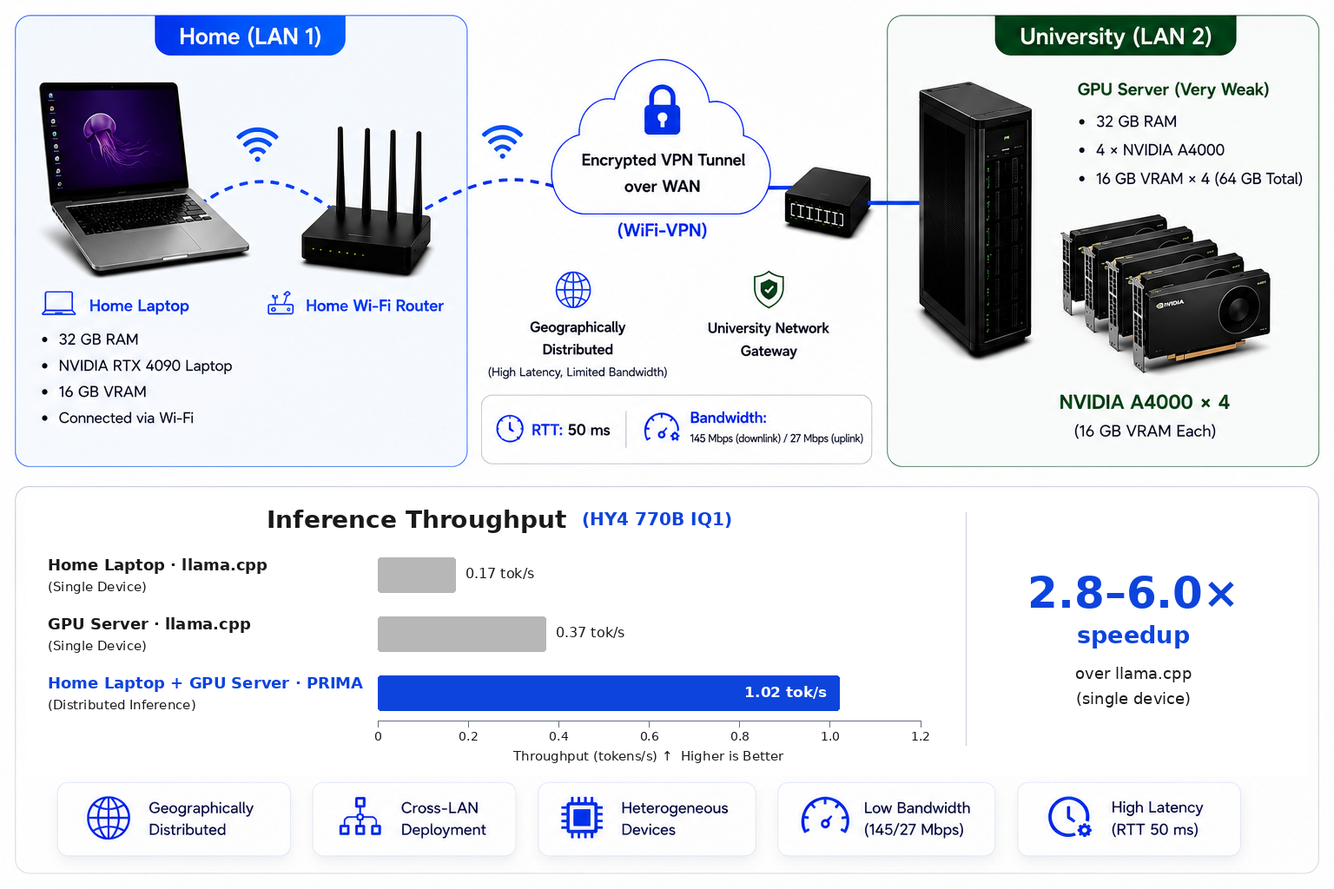
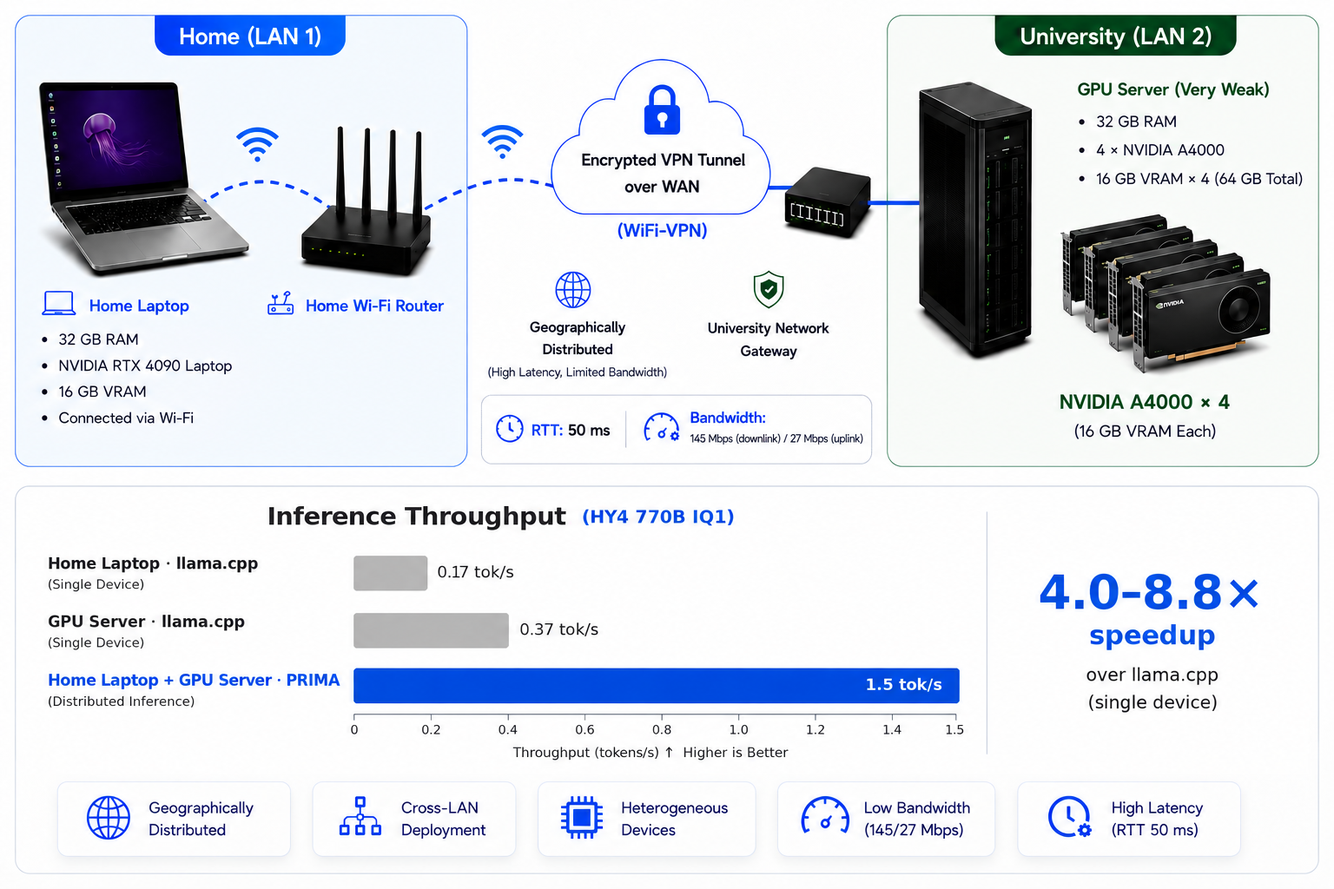
Sync web branch from cpil-lab.github.io

diff --git a/src/hy4-replay-data-fc83-20260905.js b/src/hy4-replay-data-fc83-20260905.js
@@ -1,0 +1,67 @@
+// Generated from the audited 2026-09-05 FC83 HY4 model-name EOS timing record.
+// Each event is [seconds since replay start, seconds since previous replay token, exact SSE delta, tokenizer token ID].
+// Replay timing and displayed TPOT values are final hard-coded data; the app performs no timing normalization or throughput calculation.
+export const hy4ReplayData = {
+  schema: "prima.web.hy4-token-replay.v2",
+  sourceSchemas: [
+    "prima.hy4-preview-stq1.replay-trace.v1",
+    "prima.hy4.native-token-timing-result.v1",
+  ],
+  sourceBundle: "hy4-preview-stq1-replay-20260905-fc83-model-name-eos-a1",
+  nativeSourceBundle: "/tmp/hy4-native-model-name-eos-20260828-a1/collected",
+  sourceFiles: {
[8 lines of base64/hex data omitted]
+  },
+  eventUnit: "token",
+  tokenizerTokenIdsAvailable: true,
+  prompts: {
+    "model-name": {
+      requestIndex: 1,
+      prompt: "What is your model name and what can you do for me?",
+      output: "My model name is Hunyuan. I can answer various questions, solve problems, learn new knowledge, create content, and have casual chats. I support multiple languages including Chinese, English, Japanese, Korean, Russian, French, Spanish, Portuguese, German, Italian, Dutch, Arabic, Hindi, Indonesian, Vietnamese, Thai, Polish, Ukrainian, Romanian, Turkish, Swedish, Danish, Finnish, Norwegian, Hungarian, Czech, Greek, Hebrew, Persian, Urdu, Bengali, Tamil, Telugu, Marathi, Kannada, Malayalam, Punjabi, Gujarati, Sinhala, Khmer, Lao, Burmese, Nepali, Tibetan, Mongolian, Uyghur. I can also handle tasks such as text generation, translation, summarization, code writing, and more.",
+      stopType: "eos",
+      tokenCount: 166,
+      results: {
+        home: {
+          topology: "native_laptop_4090",
+          label: "Home Laptop · llama.cpp",
+          captureStatus: "complete_visible_output",
+          tokenCount: 74,
+          output: "My name is Hunyuan, a large language model developed by Tencent. I can assist you with various tasks such as answering questions, providing information, offering suggestions, helping with writing and translation, and engaging in conversations on a wide range of topics. Whether you need help with academic research, creative writing, or just want to chat, I'm here to support you.",
+          ttftSeconds: 0,
+          tpotSeconds: 5.9,
+          events: [[0,null,"My",5274],[11.966779509,11.966779509," name",2046],[18.486197092,6.519417583," is",341],[23.790489421,5.304292329," Hun",78365],[38.630916617,14.840427196,"yuan",54403],[48.238549067,9.60763245,",",11],[54.99066966,6.752120593," a",259],[58.607548309,3.616878649," large",3335],[62.134881134,3.527332825," language",4746],[68.167437429,6.032556295," model",1792],[71.158804104,2.991366675," developed",6873],[74.606214226,3.447410122," by",533],[82.17376999,7.567555764," T",344],[89.006131279,6.832361289,"encent",45813],[94.302321553,5.296190274,".",13],[100.102150959,5.799829406," I",356],[108.206268489,8.10411753," can",565],[115.038487883,6.832219394," assist",12824],[118.222587989,3.184100106," you",435],[121.526094934,3.303506945," with",430],[125.958855433,4.432760499," various",3623],[134.533919745,8.575064312," tasks",8140],[138.006456369,3.472536624," such",1451],[145.839396165,7.832939796," as",433],[149.249924078,3.410527913," answering",38903],[153.25827373,4.008349652," questions",5465],[156.289973071,3.031699341,",",11],[160.614422115,4.324449044," providing",7259],[169.246107947,8.631685832," information",2118],[172.81782512,3.571717173,",",11],[177.450473903,4.632648783," offering",13567],[181.202000502,3.751526599," suggestions",19430],[184.600157837,3.398157335,",",11],[188.229460888,3.629303051," helping",14931],[192.050086909,3.820626021," with",430],[195.546059003,3.495972094," writing",6718],[202.906617994,7.360558991," and",303],[206.810027794,3.9034098," translation",14629],[214.160133334,7.35010554,",",11],[218.042239901,3.882106567," and",303],[222.986596802,4.944356901," engaging",21225],[227.458320951,4.471724149," in",297],[239.14626635,11.687945399," conversations",30140],[245.482440897,6.336174547," on",396],[249.258413307,3.77597241," a",259],[253.401781477,4.14336817," wide",8182],[257.242141624,3.840360147," range",3461],[261.602331167,4.360189543," of",299],[266.319072498,4.716741331," topics",14783],[271.394138496,5.075065998,".",13],[275.226667779,3.832529283," Whether",16565],[279.51422096,4.287553181," you",435],[282.970350694,3.456129734," need",1265],[291.642115307,8.671764613," help",2084],[297.106422021,5.464306714," with",430],[300.315317059,3.208895038," academic",14481],[304.270270881,3.954953822," research",3150],[307.586480476,3.316209595,",",11],[312.401108059,4.814627583," creative",15909],[316.394330947,3.993222888," writing",6718],[322.530144598,6.135813651,",",11],[326.680577821,4.150433223," or",474],[334.994205494,8.313627673," just",1557],[339.594904655,4.600699161," want",1903],[343.378727101,3.783822446," to",302],[348.553947374,5.175220273," chat",17661],[355.090319252,6.536371878,",",11],[364.647652661,9.557333409," I",356],[371.237662712,6.590010051,"'m",3283],[382.950323452,11.71266074," here",2376],[389.37966451,6.429341058," to",302],[410.647419319,21.267754809," support",2200],[419.430204101,8.782784782," you",435],[430.10283704,10.672632939,".",13]],
+        },
+        server: {
+          topology: "native_a4000x4",
+          label: "GPU server · llama.cpp",
+          captureStatus: "complete_eos",
+          tokenCount: 69,
+          output: "My name is Hunyuan, a large language model developed by Tencent. I can assist you with various tasks such as answering questions, providing information, offering suggestions, and helping with text creation like writing stories or summaries. Whether it's about science, history, daily life, or other topics, feel free to let me know your needs!",
+          ttftSeconds: 0,
+          tpotSeconds: 2.7,
+          events: [[0,null,"My",5274],[5.329084726,5.329084726," name",2046],[8.635108537,3.306023811," is",341],[10.851389129,2.216280592," Hun",78365],[14.976716725,4.125327596,"yuan",54403],[17.771172041,2.794455316,",",11],[20.239623059,2.468451018," a",259],[23.160417471,2.920794412," large",3335],[26.337241241,3.17682377," language",4746],[29.102536507,2.765295266," model",1792],[30.812557651,1.710021144," developed",6873],[33.933574558,3.121016907," by",533],[36.114424942,2.180850384," T",344],[39.60540747,3.490982528,"encent",45813],[42.020050814,2.414643344,".",13],[44.825684318,2.805633504," I",356],[47.800342343,2.974658025," can",565],[50.73407193,2.933729587," assist",12824],[53.939196366,3.205124436," you",435],[56.137486124,2.198289758," with",430],[58.777650567,2.640164443," various",3623],[62.185127839,3.407477272," tasks",8140],[65.430538604,3.245410765," such",1451],[67.851236667,2.420698063," as",433],[70.109585043,2.258348376," answering",38903],[72.520672434,2.411087391," questions",5465],[74.906250314,2.38557788,",",11],[77.044320137,2.138069823," providing",7259],[79.379720976,2.335400839," information",2118],[81.411657344,2.031936368,",",11],[83.010923053,1.599265709," offering",13567],[84.769877608,1.758954555," suggestions",19430],[86.724686316,1.954808708,",",11],[87.960536431,1.235850115," and",303],[90.214697823,2.254161392," helping",14931],[92.800216946,2.585519123," with",430],[94.943340521,2.143123575," text",2564],[97.954448265,3.011107744," creation",12151],[100.251122093,2.296673828," like",1322],[102.985932399,2.734810306," writing",6718],[104.861662252,1.875729853," stories",13639],[106.837509504,1.975847252," or",474],[109.040521483,2.203011979," summaries",80870],[112.241188814,3.200667331,".",13],[116.003184176,3.761995362," Whether",16565],[119.514585309,3.511401133," it",442],[122.574433264,3.059847955,"'s",715],[124.81741207,2.242978806," about",1201],[127.139656816,2.322244746," science",8187],[130.285613324,3.145956508,",",11],[132.636143988,2.350530664," history",5694],[134.800639646,2.164495658,",",11],[136.935195622,2.134555976," daily",9539],[139.747921807,2.812726185," life",3025],[141.687766882,1.939845075,",",11],[143.280605472,1.59283859," or",474],[145.240568255,1.959962783," other",1143],[148.184780003,2.944211748," topics",14783],[151.498550362,3.313770359,",",11],[154.43723854,2.938688178," feel",3920],[158.687509636,4.250271096," free",3544],[162.034125551,3.346615915," to",302],[164.982797602,2.948672051," let",2615],[168.359587836,3.376790234," me",763],[171.453259865,3.093672029," know",1816],[174.043004348,2.589744483," your",808],[177.509812038,3.46680769," needs",4200],[180.657133792,3.147321754,"!",0],[184.265026999,3.607893207,"",120025]],
+        },
+        prima: {
+          topology: "prima_2p",
+          label: "Home Laptop + GPU server · PRIMA",
+          captureStatus: "complete_eos",
+          tokenCount: 166,
+          output: "My model name is Hunyuan. I can answer various questions, solve problems, learn new knowledge, create content, and have casual chats. I support multiple languages including Chinese, English, Japanese, Korean, Russian, French, Spanish, Portuguese, German, Italian, Dutch, Arabic, Hindi, Indonesian, Vietnamese, Thai, Polish, Ukrainian, Romanian, Turkish, Swedish, Danish, Finnish, Norwegian, Hungarian, Czech, Greek, Hebrew, Persian, Urdu, Bengali, Tamil, Telugu, Marathi, Kannada, Malayalam, Punjabi, Gujarati, Sinhala, Khmer, Lao, Burmese, Nepali, Tibetan, Mongolian, Uyghur. I can also handle tasks such as text generation, translation, summarization, code writing, and more.",
+          ttftSeconds: 39.654474076,
+          tpotSeconds: 0.655343747860606,
+          displayMetric: "Average replay time per output token",
+          metricDefinition: "Arithmetic mean of arrival intervals from output token 2 through the final EOS token; TTFT is excluded.",
+          events: [[0,null,"My",5274],[0.923063311,0.923063311," model",1792],[1.922715628,0.999652317," name",2046],[3.033604949,1.110889321," is",341],[3.918472019,0.88486707," Hun",78365],[4.983983188,1.065511169,"yuan",54403],[5.935153389,0.951170201,".",13],[6.806625065,0.871471676," I",356],[7.682100547,0.875475482," can",565],[8.710892787,1.02879224," answer",3145],[9.740587181,1.029694394," various",3623],[10.799395247,1.058808066," questions",5465],[11.762210231,0.962814984,",",11],[12.61910116,0.856890929," solve",7377],[13.521984278,0.902883118," problems",4469],[14.397406248,0.87542197,",",11],[15.171095561,0.773689313," learn",4415],[15.950718989,0.779623428," new",1059],[16.955809559,1.00509057," knowledge",5297],[17.732548703,0.776739144,",",11],[18.380567985,0.648019282," create",2987],[19.115289544,0.734721559," content",3499],[19.808215662,0.692926118,",",11],[20.384621658,0.576405996," and",303],[21.228984021,0.844362363," have",672],[22.20175644,0.972772419," casual",30672],[23.048707659,0.846951219," ch",562],[23.945616854,0.896909195,"ats",3296],[24.741051264,0.79543441,".",13],[25.469866432,0.728815168," I",356],[26.208869661,0.739003229," support",2200],[26.934120481,0.72525082," multiple",4361],[27.821289719,0.887169238," languages",13396],[28.671419198,0.850129479," including",3201],[29.738429939,1.067010741," Chinese",10051],[30.569501159,0.83107122,",",11],[31.387411786,0.817910627," English",6821],[32.100342766,0.71293098,",",11],[32.844214261,0.743871495," Japanese",17197],[33.61162488,0.767410619,",",11],[34.336651429,0.725026549," Korean",34175],[35.089597763,0.752946334,",",11],[35.744348057,0.654750294," Russian",17984],[36.520584292,0.776236235,",",11],[37.157282678,0.636698386," French",12157],[37.852312957,0.695030279,",",11],[38.579352188,0.727039231," Spanish",19578],[39.263287918,0.68393573,",",11],[39.827628173,0.564340255," Portuguese",53139],[40.422864129,0.595235956,",",11],[41.005075891,0.582211762," German",13433],[41.71649892,0.711423029,",",11],[42.353240224,0.636741304," Italian",21382],[43.002018135,0.648777911,",",11],[43.576812473,0.574794338," Dutch",37369],[44.228611749,0.651799276,",",11],[44.784921852,0.556310103," Arabic",48338],[45.43660641,0.651684558,",",11],[45.967431442,0.530825032," Hindi",75640],[46.659646495,0.692215053,",",11],[47.218218042,0.558571547," Indonesian",84535],[47.930206101,0.711988059,",",11],[48.474848453,0.544642352," Vietnamese",70227],[49.11822075,0.643372297,",",11],[49.616961849,0.498741099," Thai",59765],[50.16962141,0.552659561,",",11],[50.676331299,0.506709889," Polish",47854],[51.292509443,0.616178144,",",11],[51.764523143,0.4720137," Ukrainian",68122],[52.412018766,0.647495623,",",11],[52.886138714,0.474119948," Romanian",112302],[53.43750265,0.551363936,",",11],[53.870577701,0.433075051," Turkish",51010],[54.47621439,0.605636689,",",11],[54.913616424,0.437402034," Swedish",50654],[55.543744529,0.630128105,",",11],[56.074912124,0.531167595," Danish",67439],[56.682832805,0.607920681,",",11],[57.144243613,0.461410808," Finnish",90345],[57.771685975,0.627442362,",",11],[58.266199409,0.494513434," Norwegian",68971],[58.848027624,0.581828215,",",11],[59.32661028,0.478582656," Hungarian",76513],[59.915078481,0.588468201,",",11],[60.411562333,0.496483852," Czech",45010],[61.022366287,0.610803954,",",11],[61.489903208,0.467536921," Greek",20919],[62.033100372,0.543197164,",",11],[62.445766799,0.412666427," Hebrew",52550],[62.945883034,0.500116235,",",11],[63.381538408,0.435655374," Persian",64021],[63.971840624,0.590302216,",",11],[64.389952489,0.418111865," Urdu",108542],[64.947015551,0.557063062,",",11],[65.386195165,0.439179614," Beng",46804],[66.036084399,0.649889234,"ali",7124],[66.627165761,0.591081362,",",11],[67.101615667,0.474449906," Tamil",72449],[67.660615618,0.558999951,",",11],[68.135678394,0.475062776," Tel",25390],[68.838082047,0.702403653,"ugu",43781],[69.415030219,0.576948172,",",11],[69.966891116,0.551860897," Mar",4222],[70.814910583,0.848019467,"athi",68367],[71.425524643,0.61061406,",",11],[71.866643078,0.441118435," Kann",113363],[72.471871456,0.605228378,"ada",3173],[72.999164102,0.527292646,",",11],[73.432413448,0.433249346," Malay",102066],[74.046575471,0.614162023,"alam",10365],[74.608318965,0.561743494,",",11],[75.045055117,0.436736152," Punj",93194],[75.606181799,0.561126682,"abi",26568],[76.199484008,0.593302209,",",11],[76.624058858,0.42457485," Guj",98441],[77.264422815,0.640363957,"ar",286],[77.869048983,0.604626168,"ati",7148],[78.417596101,0.548547118,",",11],[78.851523084,0.433926983," Sin",20390],[79.587936713,0.736413629,"h",71],[80.369884577,0.781947864,"ala",8020],[80.886444032,0.516559455,",",11],[81.304739609,0.418295577," Kh",24651],[82.05563229,0.750892681,"mer",2029],[82.549594304,0.493962014,",",11],[82.994935734,0.44534143," La",5397],[83.675002468,0.680066734,"o",78],[84.26103146,0.586028992,",",11],[84.730116466,0.469085006," Bur",15796],[85.413890354,0.683773888,"m",76],[86.071139939,0.657249585,"ese",6766],[86.680354329,0.60921439,",",11],[87.14362083,0.463266501," Nep",49690],[87.737114379,0.593493549,"ali",7124],[88.293741335,0.556626956,",",11],[88.694897025,0.40115569," Tibetan",79459],[89.200608496,0.505711471,",",11],[89.610945218,0.410336722," Mong",49332],[90.166400256,0.555455038,"olian",106227],[90.644311663,0.477911407,",",11],[91.053604877,0.409293214," U",695],[91.778816495,0.725211618,"yg",17688],[92.415581017,0.636764522,"hur",106543],[92.933770961,0.518189944,".",13],[93.631938384,0.698167423," I",356],[94.329546392,0.697608008," can",565],[95.117321014,0.787774622," also",1130],[95.870890977,0.753569963," handle",7247],[96.581482612,0.710591635," tasks",8140],[97.370579279,0.789096667," such",1451],[98.121461317,0.750882038," as",433],[98.811737618,0.690276301," text",2564],[99.643188885,0.831451267," generation",9179],[100.418573672,0.775384787,",",11],[101.014345815,0.595772143," translation",14629],[101.594999137,0.580653322,",",11],[102.082406336,0.487407199," summar",16495],[102.838944796,0.75653846,"ization",1864],[103.432806955,0.593862159,",",11],[103.966305825,0.53349887," code",2323],[104.663471621,0.697165796," writing",6718],[105.301715348,0.638243727,",",11],[105.768421556,0.466706208," and",303],[106.467585043,0.699163487," more",984],[107.455991713,0.98840667,".",13],[108.131718397,0.675726684,"",120025]],
+        },
+      },
+    },
+  },
+};

diff --git a/index.html b/index.html
@@ -51,7 +51,7 @@
               View on GitHub
               <svg aria-hidden="true" viewBox="0 0 24 24" fill="none" stroke="currentColor" stroke-width="2" stroke-linecap="round" stroke-linejoin="round"><path d="M15 22v-4a4.8 4.8 0 0 0-1-3.5c3.28-.36 6.72-1.61 6.72-7A5.4 5.4 0 0 0 19.3 4.77 5 5 0 0 0 19.16 2S18.05 1.65 15 3.48a13.4 13.4 0 0 0-7 0C4.95 1.65 3.84 2 3.84 2A5 5 0 0 0 3.7 4.77a5.4 5.4 0 0 0-1.42 2.78c0 5.42 3.44 6.67 6.72 7A4.8 4.8 0 0 0 8 18v4" /><path d="M8 19c-3 .9-3-1.5-4-2" /></svg>
             </a>
-            <a class="button button--outline" href="https://proceedings.iclr.cc/paper_files/paper/2026/file/e991e5587c1daa49bbf9a818b3f02f9a-Paper-Conference.pdf" target="_blank" rel="noreferrer">
+            <a class="button button--outline" href="https://openreview.net/pdf?id=h0LjpOG1jq" target="_blank" rel="noreferrer">
               Paper
               <svg aria-hidden="true" viewBox="0 0 24 24" fill="none" stroke="currentColor" stroke-width="2" stroke-linecap="round" stroke-linejoin="round"><path d="M14.5 2H6a2 2 0 0 0-2 2v16a2 2 0 0 0 2 2h12a2 2 0 0 0 2-2V7.5z" /><path d="M14 2v6h6" /><path d="M16 13H8" /><path d="M16 17H8" /><path d="M10 9H8" /></svg>
             </a>
@@ -213,7 +213,7 @@
               <header class="blog-post__header">
                 <div class="blog-meta"><time datetime="2026-08-31">August 31, 2026</time></div>
                 <h1 id="hy4-runbook-title-en">Inside the PRIMA Hy4 Preview 770B Experiment: How We Ran It Across Two Machines</h1>
-                <p>Two machines in different locations, across separate networks and connected wirelessly, combined 80 GB of VRAM and 64 GB of RAM to run Hy4 preview 770B at 1 TPS.</p>
+                <p>Two machines in different locations, across separate networks and connected wirelessly, combined 80 GB of VRAM and 64 GB of RAM to run Hy4 preview 770B at 1.5 TPS.</p>
               </header>
 
               <div class="blog-post__body">
@@ -748,7 +748,7 @@ jq '.choices[0].message | {content, reasoning_content}' "$RESPONSE"</code></pre>
               <header class="blog-post__header">
                 <div class="blog-meta"><time datetime="2026-08-31">2026 年 8 月 31 日</time></div>
                 <h1 id="hy4-runbook-title-zh">解密 PRIMA：如何在两台异构设备上运行 Hy4 Preview 770B</h1>
-                <p>两台设备，异地、跨网、无线连接，总计仅 80GB 显存和 64GB 系统内存，用 PRIMA 将 Hy4 Preview 770B 提速到 1 TPS。</p>
+                <p>两台设备，异地、跨网、无线连接，总计仅 80GB 显存和 64GB 系统内存，用 PRIMA 将 Hy4 Preview 770B 提速到 1.5 TPS。</p>
               </header>
 
               <div class="blog-post__body">
@@ -1447,7 +1447,7 @@ jq '.choices[0].message | {content, reasoning_content}' "$RESPONSE"</code></pre>
                 <p>The machines are not even on the same LAN. The laptop reaches the GPU server on a remote LAN over Wi-Fi and a VPN. Network RTT is approximately 50ms; the laptop’s downlink is only 145 Mbps, and its uplink is lower still at 27 Mbps.</p>
 
                 <figure class="blog-figure">
-                  <img data-blog-image="prima-hy4-testbed-v2.png" alt="A home RTX 4090 laptop connects over Wi-Fi and an encrypted cross-LAN VPN to a university server with four NVIDIA A4000 GPUs; measured Hy4 preview 770B throughput rises from 0.17 and 0.37 to 1.02 tokens per second with PRIMA" width="1536" height="1024" />
+                  <img data-blog-image="prima-hy4-testbed-v2.png" alt="A home RTX 4090 laptop connects over Wi-Fi and an encrypted cross-LAN VPN to a university server with four NVIDIA A4000 GPUs; measured Hy4 preview 770B throughput rises from 0.17 and 0.37 to 1.5 tokens per second with PRIMA" width="1536" height="1024" />
                 </figure>
 
                 <p>From an HPC perspective, this is almost exactly the kind of hardware and network setup one would be told not to use for distributed large-model inference. Yet it reflects the real world of local AI: <strong>heterogeneous devices, limited memory, and wireless networking.</strong></p>
@@ -1469,7 +1469,7 @@ jq '.choices[0].message | {content, reasoning_content}' "$RESPONSE"</code></pre>
 
                 <p>Think of the system as an enormous tool warehouse. Hy4 preview has hundreds of tools, but a specific problem needs only a few of them at a time. The GPU is a fast workbench close to the worker, but it has little space. The SSD is a vast warehouse, but retrieving a tool takes time. PRIMA tries to predict which tools will be needed next, move them close to the workbench in advance, and keep multiple workers and warehouses busy at the same time.</p>
 
-                <h2>From 6 seconds to 1 TPS</h2>
+                <h2>From 6 seconds to 1.5 TPS</h2>
 
                 <p>With PRIMA coordinating the two devices, we measured:</p>
 
@@ -1479,24 +1479,24 @@ jq '.choices[0].message | {content, reasoning_content}' "$RESPONSE"</code></pre>
                     <tbody>
                       <tr><th scope="row">4090 Laptop + llama.cpp</th><td>0.17 TPS</td></tr>
                       <tr><th scope="row">4× A4000 Server + llama.cpp</th><td>0.37 TPS</td></tr>
-                      <tr><th scope="row">4090 Laptop + 4× A4000 + PRIMA</th><td><strong>1.02 TPS</strong></td></tr>
+                      <tr><th scope="row">4090 Laptop + 4× A4000 + PRIMA</th><td><strong>1.5 TPS</strong></td></tr>
                     </tbody>
                   </table>
                 </div>
 
-                <p>With the two devices working together, throughput increased by <strong>6×</strong> over the laptop alone and by <strong>2.8×</strong> over the four-A4000 server alone.</p>
+                <p>With the two devices working together, throughput increased by <strong>8.8×</strong> over the laptop alone and by <strong>4.1×</strong> over the four-A4000 server alone.</p>
 
-                <p>One TPS is not a speed worth boasting about. What matters is this:</p>
+                <p>1.5 TPS is not a speed worth boasting about. What matters is this:</p>
 
-                <blockquote><strong>Without spending anything on new hardware, we accelerated a 770B model by 6×.</strong></blockquote>
+                <blockquote><strong>Without spending anything on new hardware, we accelerated a 770B model by 8.8×.</strong></blockquote>
 
-                <h2 data-single-line-heading>1 TPS is nowhere near PRIMA’s performance ceiling</h2>
+                <h2 data-single-line-heading>1.5 TPS is nowhere near PRIMA’s performance ceiling</h2>
 
                 <p>More importantly, the primary bottleneck in this two-machine system is still not CPU or GPU compute. It is <strong>streaming model data from SSD</strong>. The complete Hy4 preview IQ1 weights remain larger than the RAM and VRAM that can stay resident across both devices. Every generated token still requires substantial cold-expert data to be read from SSD. Prefetching, the page cache, expert caching, and computation overlap hide as much disk latency as possible, but SSD bandwidth remains the clearest bottleneck.</p>
 
                 <p>Therefore:</p>
 
-                <blockquote><strong>One TPS is the limit of these two devices, not the performance limit of PRIMA.</strong></blockquote>
+                <blockquote><strong>1.5 TPS is the limit of these two devices, not the performance limit of PRIMA.</strong></blockquote>
 
                 <p>Replacing the SSDs with higher-throughput storage in the future would leave significant room for improvement.</p>
 
@@ -1552,7 +1552,7 @@ jq '.choices[0].message | {content, reasoning_content}' "$RESPONSE"</code></pre>
 
                 <p>The model may be less capable, but most real-world tasks do not require the most capable model. We can add capacity until it becomes capable enough.</p>
 
-                <p>PRIMA + Hy4 preview 770B was a successful stress test. It did not create a local AI throughput miracle. It showed that 0.37 TPS on one device was not the limit of what I could deploy without new hardware, and that 1 TPS across two devices is not the end of the performance curve.</p>
+                <p>PRIMA + Hy4 preview 770B was a successful stress test. It did not create a local AI throughput miracle. It showed that 0.37 TPS on one device was not the limit of what I could deploy without new hardware, and that 1.5 TPS across two devices is not the end of the performance curve.</p>
 
                 <blockquote>Where will that boundary move when the next device joins?</blockquote>
 
@@ -1691,7 +1691,7 @@ jq '.choices[0].message | {content, reasoning_content}' "$RESPONSE"</code></pre>
               <p>它们甚至不在同一个局域网里：笔记本通过 Wi-Fi 和 VPN 访问远端局域网中的 GPU 服务器，网络 RTT 约为 50ms，笔记本的下行带宽仅为 145 Mbps，上行带宽更低，仅为 27 Mbps。</p>
 
               <figure class="blog-figure">
-                <img data-blog-image="prima-hy4-testbed-v2.png" alt="A home RTX 4090 laptop connects over Wi-Fi and an encrypted cross-LAN VPN to a university server with four NVIDIA A4000 GPUs; measured Hy4 preview 770B throughput rises from 0.17 and 0.37 to 1.02 tokens per second with PRIMA" width="1536" height="1024" />
+                <img data-blog-image="prima-hy4-testbed-v2.png" alt="A home RTX 4090 laptop connects over Wi-Fi and an encrypted cross-LAN VPN to a university server with four NVIDIA A4000 GPUs; measured Hy4 preview 770B throughput rises from 0.17 and 0.37 to 1.5 tokens per second with PRIMA" width="1536" height="1024" />
               </figure>
 
               <p>从 HPC 的角度看，这几乎是一套“不应该拿来做分布式大模型推理”的硬件和网络设施。但这正是本地 AI 面对的真实世界：<strong>异构设备、小内存、无线网络。</strong></p>
@@ -1713,7 +1713,7 @@ jq '.choices[0].message | {content, reasoning_content}' "$RESPONSE"</code></pre>
 
               <p>可以把它理解成一个非常大的工具仓库。 Hy4 preview 有几百种工具，但解决一个具体问题时，一次只需要其中少数几种。 GPU 是离工人最近的工作台，但空间很小。 SSD 是巨大的仓库，但取工具比较慢。 PRIMA 要做的事情，就是尽可能预测“接下来最可能用什么工具”，提前把它们放到工作台附近，同时让多个工人、多个仓库一起工作。</p>
 
-              <h2>从 6 秒，到 1 TPS</h2>
+              <h2>从 6 秒，到 1.5 TPS</h2>
 
               <p>在 PRIMA 的协调下，我们得到：</p>
 
@@ -1723,24 +1723,24 @@ jq '.choices[0].message | {content, reasoning_content}' "$RESPONSE"</code></pre>
                   <tbody>
                 <tr><th scope="row">4090 Laptop + llama.cpp</th><td>0.17 TPS</td></tr>
                 <tr><th scope="row">4× A4000 Server + llama.cpp</th><td>0.37 TPS</td></tr>
-                <tr><th scope="row">4090 Laptop + 4× A4000 + PRIMA</th><td><strong>1.02 TPS</strong></td></tr>
+                <tr><th scope="row">4090 Laptop + 4× A4000 + PRIMA</th><td><strong>1.5 TPS</strong></td></tr>
               </tbody>
                 </table>
               </div>
 
-              <p>两设备协同下， 相对于笔记本单机，吞吐提高 <strong>6 倍</strong>；相对于四卡 A4000 服务器单机，吞吐提高 <strong>2.8 倍</strong>。</p>
+              <p>两设备协同下，相对于笔记本单机，吞吐提高 <strong>8.8 倍</strong>；相对于四卡 A4000 服务器单机，吞吐提高 <strong>4.1 倍</strong>。</p>
 
-              <p>1 TPS 不是一个值得炫耀的速度。真正重要的是：</p>
+              <p>1.5 TPS 不是一个值得炫耀的速度。真正重要的是：</p>
 
-              <blockquote><strong>我们没有付出任何成本，就把一个 770B 模型加速 6 倍。</strong></blockquote>
+              <blockquote><strong>我们没有付出任何成本，就把一个 770B 模型加速 8.8 倍。</strong></blockquote>
 
-              <h2>1 TPS 远不是 PRIMA 的性能上限</h2>
+              <h2>1.5 TPS 远不是 PRIMA 的性能上限</h2>
 
               <p>更重要的是， 目前这套两机系统的主要瓶颈依然不是 CPU/GPU 算力，而是 <strong>SSD 的磁盘流式读取</strong>。因为 Hy4 preview IQ1 的完整模型权重仍然大于两台设备能够常驻的内存和显存， 每生成一个 token，仍然有大量冷专家权重需要从 SSD 中读取。即使我们已经通过预取、page cache、专家缓存和计算重叠尽量隐藏磁盘延迟，SSD 带宽依然是当前系统最明显的瓶颈。</p>
 
               <p>因此：</p>
 
-              <blockquote><strong>1 TPS 只是这两台设备的极限，并不是 PRIMA 的性能极限。</strong></blockquote>
+              <blockquote><strong>1.5 TPS 只是这两台设备的极限，并不是 PRIMA 的性能极限。</strong></blockquote>
 
               <p>如果我们把 SSD 换成未来吞吐更高的存储，性能仍有显著提高空间。</p>
 
@@ -1796,7 +1796,7 @@ jq '.choices[0].message | {content, reasoning_content}' "$RESPONSE"</code></pre>
 
               <p>它可能不聪明，但现实世界大部分真实任务，其实不需要那么聪明，我们通过扩容把它变得更聪明，就足够了。</p>
 
-              <p>PRIMA + Hy4 preview 770B 是一次成功的压力测试，它没有创造本地 AI 吞吐的奇迹，但它证明了单设备 0.37 TPS 不是我零成本部署的极限，而两设备 1 TPS 也不是性能的终点。</p>
+              <p>PRIMA + Hy4 preview 770B 是一次成功的压力测试，它没有创造本地 AI 吞吐的奇迹，但它证明了单设备 0.37 TPS 不是我零成本部署的极限，而两设备 1.5 TPS 也不是性能的终点。</p>
 
               <blockquote>那么，下一台设备加入之后，这个边界会在哪里？</blockquote>
 
@@ -2087,7 +2087,7 @@ jq '.choices[0].message | {content, reasoning_content}' "$RESPONSE"</code></pre>
               <article class="sim-response-panel sim-response-panel--prima" data-sim-result data-sim-result-id="prima" data-sim-rate-off="7.4" data-sim-rate-on="15.2" data-sim-ttft-off="1351.73" data-sim-ttft-on="1585.18">
                 <div class="sim-response-head">
                   <span>Home Laptop + GPU server · PRIMA</span>
-                  <strong data-sim-result-rate-output data-sim-rate>0.98 s/tok</strong>
+                  <strong data-sim-result-rate-output data-sim-rate>0.66 s/tok</strong>
                   <span data-sim-status data-sim-result-status role="status" aria-live="polite">Ready</span>
                 </div>
                 <div class="sim-response" id="simulation-response" data-sim-output data-sim-result-output aria-busy="false">
@@ -2175,6 +2175,6 @@ jq '.choices[0].message | {content, reasoning_content}' "$RESPONSE"</code></pre>
     </main>
 
     <script defer src="./vendor/lucide-prima.js"></script>
-    <script type="module" src="./src/app.js?v=hy4-guidance-stq1-v29-20260901"></script>
+    <script type="module" src="./src/app.js?v=hy4-replay-fc83-v31-20260905"></script>
   </body>
 </html>

diff --git a/src/hy4-replay-data.js b/src/hy4-replay-data.js
@@ -1,63 +1,2 @@
-// Generated from the audited HY4 model-name EOS timing record.
-// Each event is [seconds since replay start, seconds since previous replay token, exact SSE delta, tokenizer token ID].
-// Replay timing and displayed TPOT values are final hard-coded data; the app performs no timing normalization or throughput calculation.
-export const hy4ReplayData = {
-  schema: "prima.web.hy4-token-replay.v2",
-  sourceSchemas: [
-    "prima.hy4.model-name-eos-token-timing.v1",
-    "prima.hy4.native-token-timing-result.v1",
-  ],
-  sourceBundle: "/tmp/hy4-prompt-search-20260828-a2/results/model-name-eos-a5",
-  nativeSourceBundle: "/tmp/hy4-native-model-name-eos-20260828-a1/collected",
-  sourceFiles: {
[7 lines of base64/hex data omitted]
-  },
-  eventUnit: "token",
-  tokenizerTokenIdsAvailable: true,
-  prompts: {
-    "model-name": {
-      requestIndex: 1,
-      prompt: "What is your model name and what can you do for me?",
-      output: "My name is Hunyuan, a large language model developed by Tencent. I can assist you with various tasks such as answering questions (covering general knowledge, science, technology, culture, etc.), providing information retrieval services, helping with text creation like writing stories or articles, and offering solutions to problems in different fields including but not limited to programming, education, and daily life. Whether you need factual answers, creative inspiration, or technical support, I'm here to help!",
-      stopType: "eos",
-      tokenCount: 96,
-      results: {
-        home: {
-          topology: "native_laptop_4090",
-          label: "Home Laptop · llama.cpp",
-          captureStatus: "complete_visible_output",
-          tokenCount: 74,
-          output: "My name is Hunyuan, a large language model developed by Tencent. I can assist you with various tasks such as answering questions, providing information, offering suggestions, helping with writing and translation, and engaging in conversations on a wide range of topics. Whether you need help with academic research, creative writing, or just want to chat, I'm here to support you.",
-          ttftSeconds: 0,
-          tpotSeconds: 5.9,
-          events: [[0,null,"My",5274],[11.966779509,11.966779509," name",2046],[18.486197092,6.519417583," is",341],[23.790489421,5.304292329," Hun",78365],[38.630916617,14.840427196,"yuan",54403],[48.238549067,9.60763245,",",11],[54.99066966,6.752120593," a",259],[58.607548309,3.616878649," large",3335],[62.134881134,3.527332825," language",4746],[68.167437429,6.032556295," model",1792],[71.158804104,2.991366675," developed",6873],[74.606214226,3.447410122," by",533],[82.17376999,7.567555764," T",344],[89.006131279,6.832361289,"encent",45813],[94.302321553,5.296190274,".",13],[100.102150959,5.799829406," I",356],[108.206268489,8.10411753," can",565],[115.038487883,6.832219394," assist",12824],[118.222587989,3.184100106," you",435],[121.526094934,3.303506945," with",430],[125.958855433,4.432760499," various",3623],[134.533919745,8.575064312," tasks",8140],[138.006456369,3.472536624," such",1451],[145.839396165,7.832939796," as",433],[149.249924078,3.410527913," answering",38903],[153.25827373,4.008349652," questions",5465],[156.289973071,3.031699341,",",11],[160.614422115,4.324449044," providing",7259],[169.246107947,8.631685832," information",2118],[172.81782512,3.571717173,",",11],[177.450473903,4.632648783," offering",13567],[181.202000502,3.751526599," suggestions",19430],[184.600157837,3.398157335,",",11],[188.229460888,3.629303051," helping",14931],[192.050086909,3.820626021," with",430],[195.546059003,3.495972094," writing",6718],[202.906617994,7.360558991," and",303],[206.810027794,3.9034098," translation",14629],[214.160133334,7.35010554,",",11],[218.042239901,3.882106567," and",303],[222.986596802,4.944356901," engaging",21225],[227.458320951,4.471724149," in",297],[239.14626635,11.687945399," conversations",30140],[245.482440897,6.336174547," on",396],[249.258413307,3.77597241," a",259],[253.401781477,4.14336817," wide",8182],[257.242141624,3.840360147," range",3461],[261.602331167,4.360189543," of",299],[266.319072498,4.716741331," topics",14783],[271.394138496,5.075065998,".",13],[275.226667779,3.832529283," Whether",16565],[279.51422096,4.287553181," you",435],[282.970350694,3.456129734," need",1265],[291.642115307,8.671764613," help",2084],[297.106422021,5.464306714," with",430],[300.315317059,3.208895038," academic",14481],[304.270270881,3.954953822," research",3150],[307.586480476,3.316209595,",",11],[312.401108059,4.814627583," creative",15909],[316.394330947,3.993222888," writing",6718],[322.530144598,6.135813651,",",11],[326.680577821,4.150433223," or",474],[334.994205494,8.313627673," just",1557],[339.594904655,4.600699161," want",1903],[343.378727101,3.783822446," to",302],[348.553947374,5.175220273," chat",17661],[355.090319252,6.536371878,",",11],[364.647652661,9.557333409," I",356],[371.237662712,6.590010051,"'m",3283],[382.950323452,11.71266074," here",2376],[389.37966451,6.429341058," to",302],[410.647419319,21.267754809," support",2200],[419.430204101,8.782784782," you",435],[430.10283704,10.672632939,".",13]],
-        },
-        server: {
-          topology: "native_a4000x4",
-          label: "GPU server · llama.cpp",
-          captureStatus: "complete_eos",
-          tokenCount: 69,
-          output: "My name is Hunyuan, a large language model developed by Tencent. I can assist you with various tasks such as answering questions, providing information, offering suggestions, and helping with text creation like writing stories or summaries. Whether it's about science, history, daily life, or other topics, feel free to let me know your needs!",
-          ttftSeconds: 0,
-          tpotSeconds: 2.7,
-          events: [[0,null,"My",5274],[5.329084726,5.329084726," name",2046],[8.635108537,3.306023811," is",341],[10.851389129,2.216280592," Hun",78365],[14.976716725,4.125327596,"yuan",54403],[17.771172041,2.794455316,",",11],[20.239623059,2.468451018," a",259],[23.160417471,2.920794412," large",3335],[26.337241241,3.17682377," language",4746],[29.102536507,2.765295266," model",1792],[30.812557651,1.710021144," developed",6873],[33.933574558,3.121016907," by",533],[36.114424942,2.180850384," T",344],[39.60540747,3.490982528,"encent",45813],[42.020050814,2.414643344,".",13],[44.825684318,2.805633504," I",356],[47.800342343,2.974658025," can",565],[50.73407193,2.933729587," assist",12824],[53.939196366,3.205124436," you",435],[56.137486124,2.198289758," with",430],[58.777650567,2.640164443," various",3623],[62.185127839,3.407477272," tasks",8140],[65.430538604,3.245410765," such",1451],[67.851236667,2.420698063," as",433],[70.109585043,2.258348376," answering",38903],[72.520672434,2.411087391," questions",5465],[74.906250314,2.38557788,",",11],[77.044320137,2.138069823," providing",7259],[79.379720976,2.335400839," information",2118],[81.411657344,2.031936368,",",11],[83.010923053,1.599265709," offering",13567],[84.769877608,1.758954555," suggestions",19430],[86.724686316,1.954808708,",",11],[87.960536431,1.235850115," and",303],[90.214697823,2.254161392," helping",14931],[92.800216946,2.585519123," with",430],[94.943340521,2.143123575," text",2564],[97.954448265,3.011107744," creation",12151],[100.251122093,2.296673828," like",1322],[102.985932399,2.734810306," writing",6718],[104.861662252,1.875729853," stories",13639],[106.837509504,1.975847252," or",474],[109.040521483,2.203011979," summaries",80870],[112.241188814,3.200667331,".",13],[116.003184176,3.761995362," Whether",16565],[119.514585309,3.511401133," it",442],[122.574433264,3.059847955,"'s",715],[124.81741207,2.242978806," about",1201],[127.139656816,2.322244746," science",8187],[130.285613324,3.145956508,",",11],[132.636143988,2.350530664," history",5694],[134.800639646,2.164495658,",",11],[136.935195622,2.134555976," daily",9539],[139.747921807,2.812726185," life",3025],[141.687766882,1.939845075,",",11],[143.280605472,1.59283859," or",474],[145.240568255,1.959962783," other",1143],[148.184780003,2.944211748," topics",14783],[151.498550362,3.313770359,",",11],[154.43723854,2.938688178," feel",3920],[158.687509636,4.250271096," free",3544],[162.034125551,3.346615915," to",302],[164.982797602,2.948672051," let",2615],[168.359587836,3.376790234," me",763],[171.453259865,3.093672029," know",1816],[174.043004348,2.589744483," your",808],[177.509812038,3.46680769," needs",4200],[180.657133792,3.147321754,"!",0],[184.265026999,3.607893207,"",120025]],
-        },
-        prima: {
-          topology: "prima_2p",
-          label: "Home Laptop + GPU server · PRIMA",
-          captureStatus: "complete_eos",
-          tokenCount: 96,
-          ttftSeconds: 0,
-          tpotSeconds: 0.98,
-          events: [[0,null,"My",5274],[1.023774805,1.023774805," name",2046],[2.06359329,1.039818485," is",341],[3.018253607,0.954660317," Hun",78365],[4.242896624,1.224643017,"yuan",54403],[5.318495994,1.07559937,",",11],[6.279992524,0.96149653," a",259],[7.307732825,1.027740301," large",3335],[8.497205804,1.189472979," language",4746],[9.527219045,1.030013241," model",1792],[10.326551959,0.799332914," developed",6873],[11.329044097,1.002492138," by",533],[12.166135853,0.837091756," T",344],[13.28414708,1.118011227,"encent",45813],[14.081325988,0.797178908,".",13],[14.953459312,0.872133324," I",356],[15.836761846,0.883302534," can",565],[16.888311259,1.051549413," assist",12824],[19.659975845,2.771664586," you",435],[20.597034644,0.937058799," with",430],[21.55485461,0.957819966," various",3623],[22.677342056,1.122487446," tasks",8140],[23.69881333,1.021471274," such",1451],[24.766308937,1.067495607," as",433],[25.697914896,0.931605959," answering",38903],[26.680423427,0.982508531," questions",5465],[27.657151103,0.976727676," (",347],[28.889275778,1.232124675,"cover",21505],[29.868954492,0.979678714,"ing",287],[30.416150982,0.54719649," general",3833],[31.346980661,0.930829679," knowledge",5297],[32.060949664,0.713969003,",",11],[32.912433677,0.851484013," science",8187],[33.829542679,0.917109002,",",11],[34.775602108,0.946059429," technology",5699],[35.566283384,0.790681276,",",11],[36.182577826,0.616294442," culture",7547],[36.902901525,0.720323699,",",11],[37.48770391,0.584802385," etc",4564],[38.426072488,0.938368578,".),",14858],[39.27203934,0.845966852," providing",7259],[40.222153667,0.950114327," information",2118],[41.228609346,1.006455679," retrieval",35539],[42.388592801,1.159983455," services",4779],[43.239656405,0.851063604,",",11],[43.939130049,0.699473644," helping",14931],[44.899365481,0.960235432," with",430],[45.960392992,1.061027511," text",2564],[46.982586638,1.022193646," creation",12151],[47.916835687,0.934249049," like",1322],[49.001752419,1.084916732," writing",6718],[49.723030097,0.721277678," stories",13639],[50.447007749,0.723977652," or",474],[51.428510728,0.981502979," articles",14162],[52.287533743,0.859023015,",",11],[53.035737218,0.748203475," and",303],[53.821567159,0.785829941," offering",13567],[54.513572566,0.692005407," solutions",5990],[55.293572566,0.78," to",302],[56.408396898,1.114824332," problems",4469],[57.347212766,0.938815868," in",297],[58.400377856,1.05316509," different",1653],[59.578846965,1.178469109," fields",6781],[60.705466313,1.126619348," including",3201],[61.756647107,1.051180794," but",857],[63.112504317,1.35585721," not",583],[64.354100377,1.24159606," limited",6939],[65.315096242,0.960995865," to",302],[66.322933916,1.007837674," programming",10557],[67.548643565,1.225709649,",",11],[68.582276415,1.03363285," education",6810],[69.452423882,0.870147467,",",11],[70.210664348,0.758240466," and",303],[71.105004162,0.894339814," daily",9539],[72.105662599,1.000658437," life",3025],[73.067295874,0.961633275,".",13],[74.01452766,0.947231786," Whether",16565],[75.234480888,1.219953228," you",435],[76.386980675,1.152499787," need",1265],[77.571663488,1.184682813," factual",75137],[78.712496957,1.140833469," answers",11378],[79.750372788,1.037875831,",",11],[80.708495834,0.958123046," creative",15909],[81.540455025,0.831959191," inspiration",31895],[82.349999242,0.809544217,",",11],[83.039987981,0.689988739," or",474],[83.881772078,0.841784097," technical",9451],[84.795731345,0.913959267," support",2200],[85.726887495,0.93115615,",",11],[86.503244354,0.776356859," I",356],[87.626620704,1.12337635,"'m",3283],[88.635337911,1.008717207," here",2376],[89.85602366,1.220685749," to",302],[90.936345471,1.080321811," help",2084],[91.990760845,1.054415374,"!",0],[93.205489427,1.214728582,"",120025]],
-        },
-      },
-    },
-  },
-};
+// Compatibility entry point. New deployments import the immutable FC83 path directly.
+export { hy4ReplayData } from "./hy4-replay-data-fc83-20260905.js";

diff --git a/playground/index.html b/playground/index.html
@@ -6,9 +6,9 @@
     <title>Prima Lab — Playground</title>
     <script>
       try { sessionStorage.setItem("prima-route", "playground"); } catch {}
-      location.replace("../index.html");
+      location.replace("../index.html?v=hy4-replay-fc83-v31-20260905");
     </script>
-    <noscript><meta http-equiv="refresh" content="0;url=../index.html" /></noscript>
+    <noscript><meta http-equiv="refresh" content="0;url=../index.html?v=hy4-replay-fc83-v31-20260905" /></noscript>
   </head>
   <body></body>
 </html>

diff --git a/src/app.js b/src/app.js
@@ -1,5 +1,5 @@
 import { presetConversations } from "./preset-conversations.js?v=appended-presets-v2-20260823";
-import { hy4ReplayData } from "./hy4-replay-data.js?v=hy4-stq1-replay-v13-20260901";
+import { hy4ReplayData } from "./hy4-replay-data-fc83-20260905.js";
 import { renderMarkdownInto } from "./markdown-renderer.js";
 
 document.documentElement.classList.add("js");
